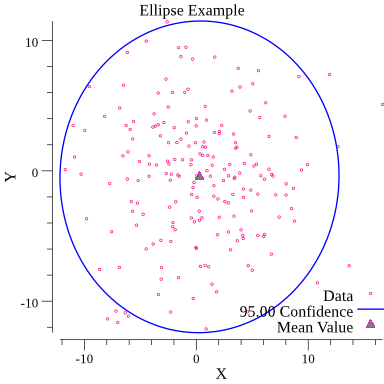
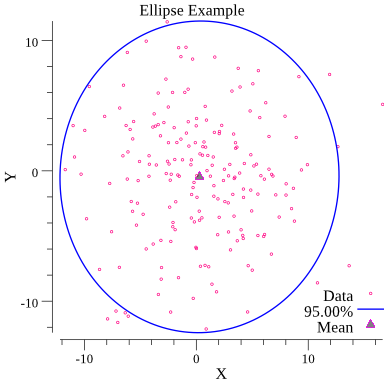
Updated README, Fixed travis builds

Changed region(s): [[0.625, 0.7812, 0.9375, 0.875]]

diff --git a/examples/confidence/confidence.go b/examples/confidence/confidence.go
@@ -73,7 +73,7 @@ func main() {
 	// ellipse line plot
 	line.Color = color.RGBA{B: 255, A: 255}
 	p.Add(line)
-	p.Legend.Add(fmt.Sprintf("%.2f Confidence", 100*confidence), line)
+	p.Legend.Add(fmt.Sprintf("%.2f%%", 100*confidence), line)
 
 	// plot mean values
 	var meanXYs plotter.XYs
@@ -89,7 +89,7 @@ func main() {
 	scatterMean.GlyphStyle.Radius = vg.Points(3)
 
 	p.Add(scatterMean)
-	p.Legend.Add("Mean Value", scatterMean)
+	p.Legend.Add("Mean", scatterMean)
 
 	// Save the plot to a PNG file.
 	if err := p.Save(4*vg.Inch, 4*vg.Inch, "confidence.png"); err != nil {

diff --git a/README.md b/README.md
@@ -6,9 +6,9 @@
 
 # gollipse
 
-`gollipse` provides a simple `Go` package which allows to easily create [ellipse](https://en.wikipedia.org/wiki/Ellipse). The package provides a simple API to generate a predefined number of points on the ellipse curve which can then be plotted and saved in a file.
+`gollipse` provides a simple `Go` package which allows to easily create [ellipse](https://en.wikipedia.org/wiki/Ellipse) curve. The package provides a simple API to generate a predefined number of points on the ellipse curve which can then be plotted and saved as an image in a file.
 
-On top of creating simple ellipses, the package API also provides a way to create confidence ellipse from 2D normally distributed data i.e. [Gaussian](https://en.wikipedia.org/wiki/Gaussian_function) data, with a predefined level of confidence the ellipse should encompass. This is handy for covariance error analysis when dealing with 2D normally distributed data.
+Besides the abilitiy to create simple ellipses, the package API also provides a way to create confidence ellipses from normally distributed 2D data i.e. [Gaussian](https://en.wikipedia.org/wiki/Gaussian_function) data, with a predefined level of confidence. This is handy for covariance error analysis when dealing with 2D normally distributed data.
 
 The package takes advange of the amazing [gonum](https://www.gonum.org) suite of libraries for scientific computing in `Go` [1]
 
